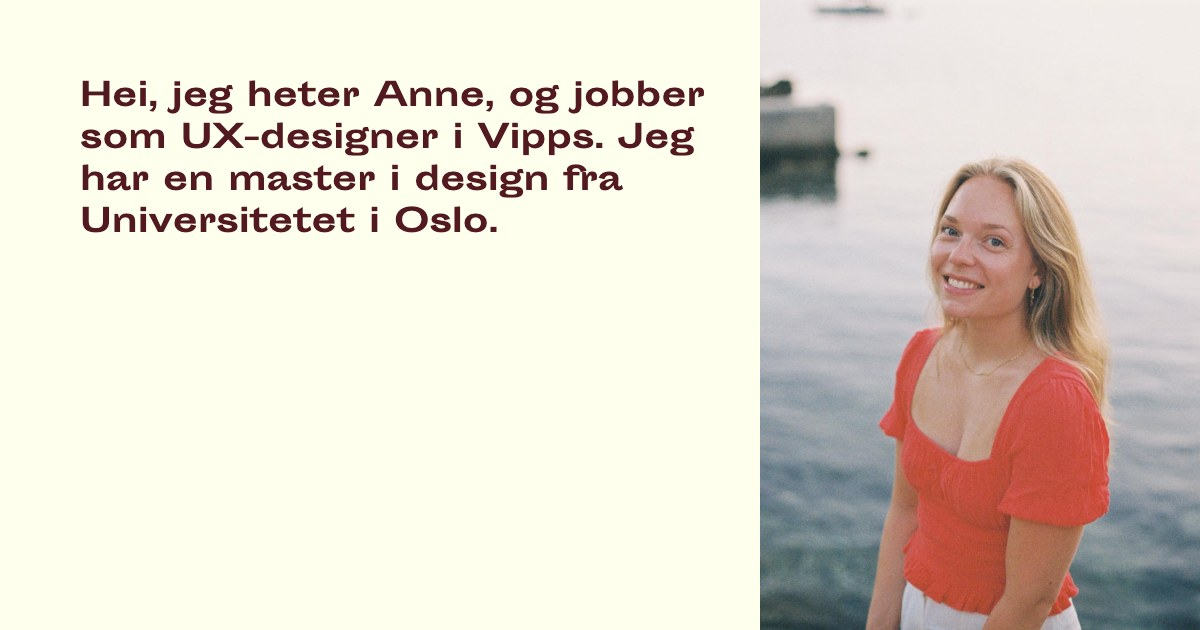
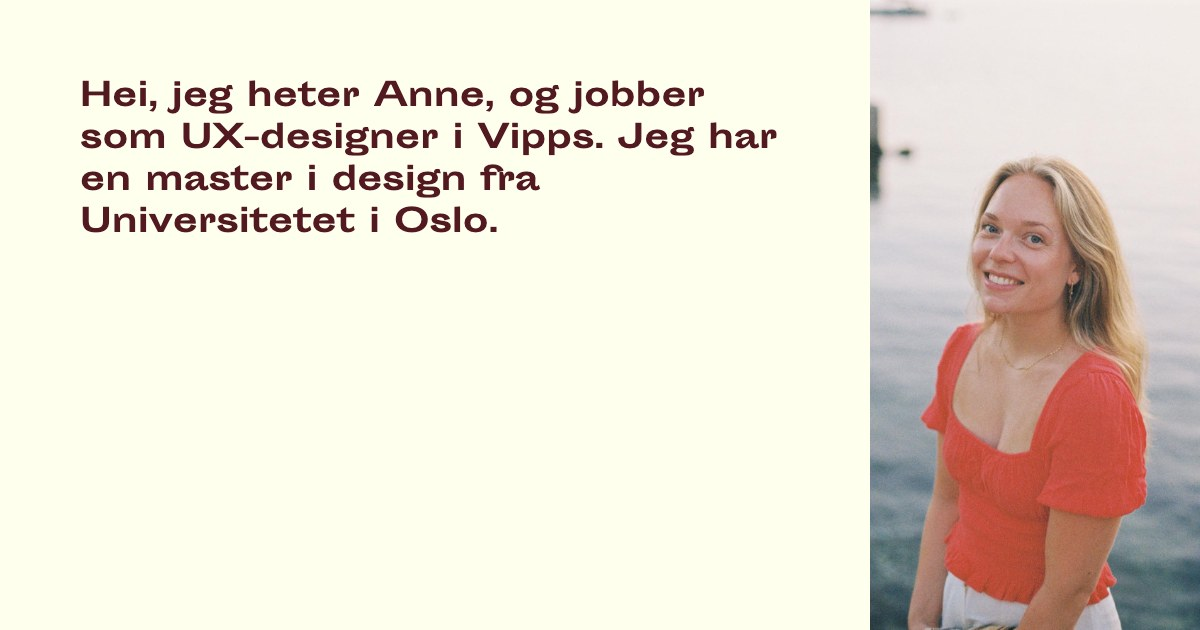
Delingsbilde: smalere portrett og bredere tekst

Changed region(s): [[0.5858, 0.0, 1.0, 1.0], [0.0617, 0.2413, 0.5242, 0.3317]]

diff --git a/tools/delingsbilde.html b/tools/delingsbilde.html
@@ -59,17 +59,19 @@
       g.fillStyle = "#FEFFED";
       g.fillRect(0, 0, 1200, 630);
 
-      // Portrett til høyre (beskjæres til høyden)
-      const px = 760, pw = 440;
-      const sh = photo.naturalWidth * 630 / pw;
-      const sy = Math.max(0, (photo.naturalHeight - sh) * 0.15);
-      g.drawImage(photo, 0, sy, photo.naturalWidth, sh, px, 0, pw, 630);
+      // Portrett til høyre. Fyller hele høyden og beskjæres etter behov (ansiktet ligger litt til høyre og oppe).
+      const px = 870, pw = 330;
+      const scale = Math.max(pw / photo.naturalWidth, 630 / photo.naturalHeight);
+      const sw = pw / scale, sh = 630 / scale;
+      const sx = (photo.naturalWidth - sw) * 0.65;
+      const sy = (photo.naturalHeight - sh) * 0.15;
+      g.drawImage(photo, sx, sy, sw, sh, px, 0, pw, 630);
 
       // Presentasjonsteksten øverst til venstre
       g.fillStyle = "#521921";
       g.textBaseline = "alphabetic";
       g.font = '700 32px "Sporting Grotesque"';
-      const lines = wrap(g, input.value.trim(), 640);
+      const lines = wrap(g, input.value.trim(), 720);
       const lineHeight = 42;
       const top = 106; // første linje, med luft over (ca. 80 px til toppen av bokstavene)
       lines.forEach((line, i) => g.fillText(line, 80, top + i * lineHeight));
